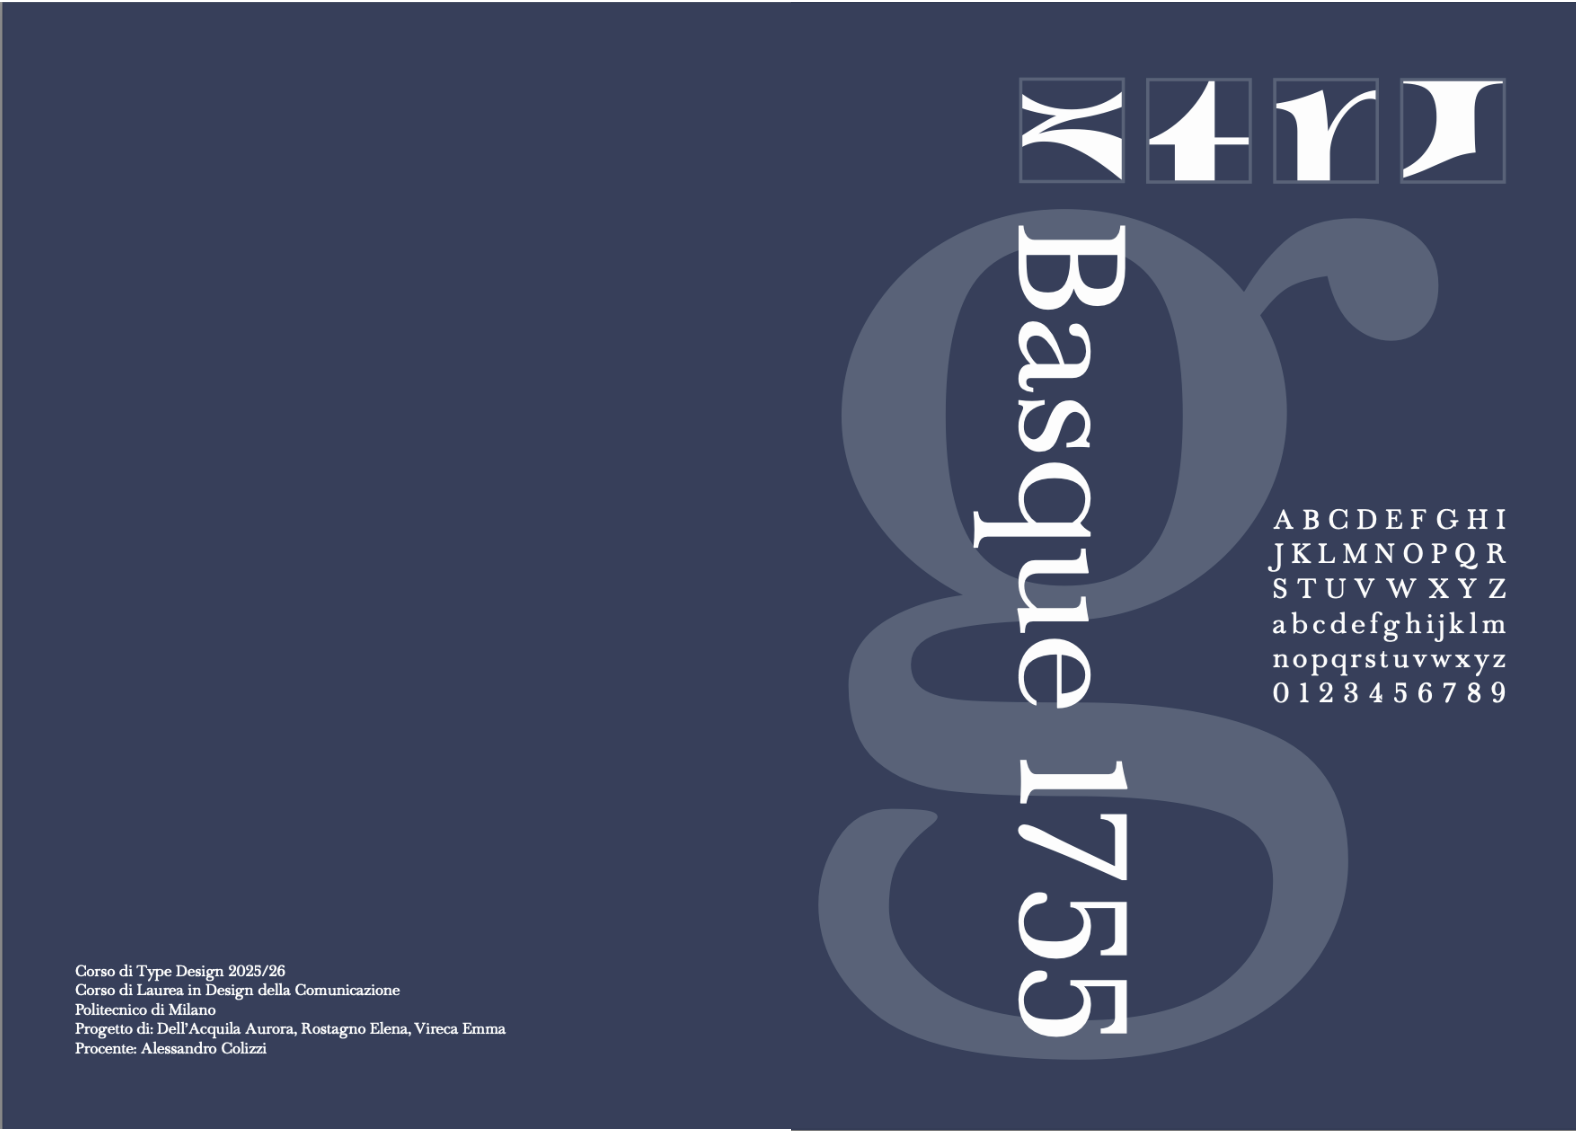
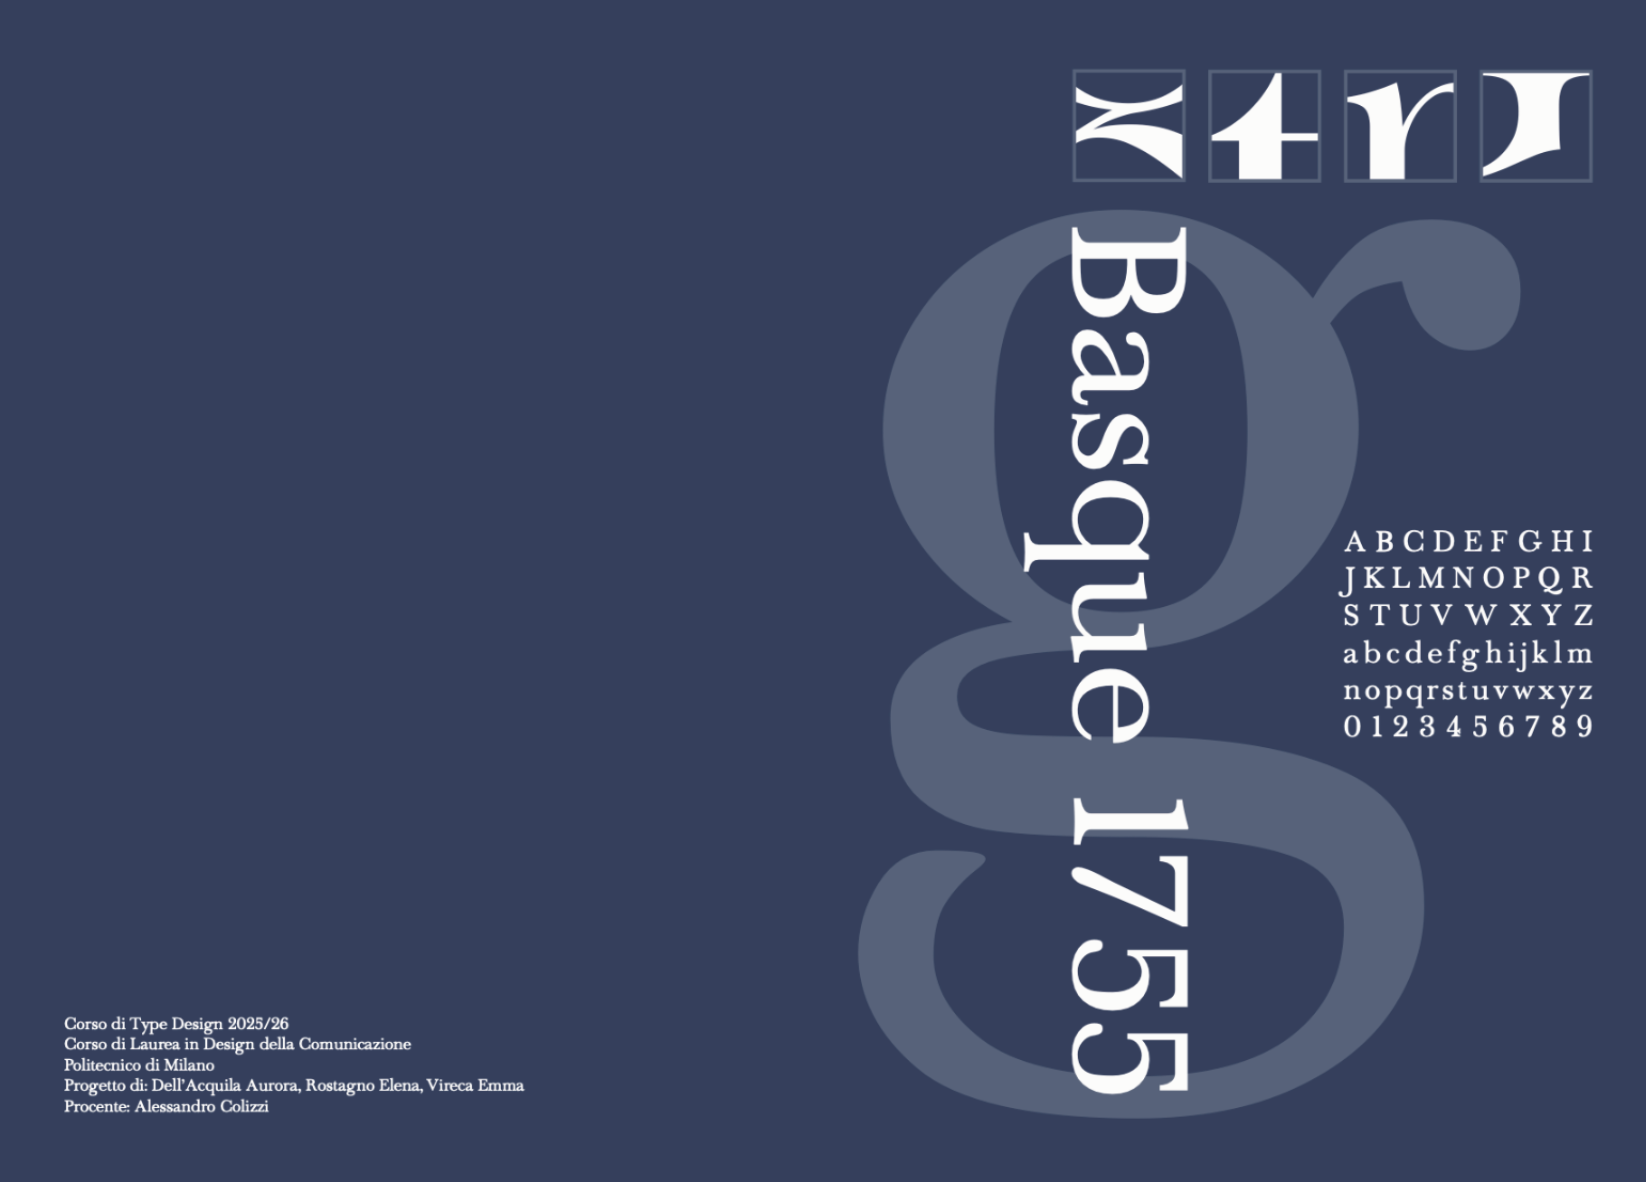
foto

diff --git a/src/routes/+page.svelte b/src/routes/+page.svelte
@@ -9,6 +9,13 @@
 	import Focus from "$lib/assets/focus.png";
 	import Basque from "$lib/assets/basque.png";
 	import Foto from "$lib/assets/foto.png";
+	import Voila from "$lib/assets/Voilà.png";
+	import Goccie from "$lib/assets/Goccie.png";
+	import Dizionario from "$lib/assets/dizionario.png";
+	import Alpha from "$lib/assets/alpha.png";
+	import bruco from "$lib/assets/bruco.gif";
+	import mockup from "$lib/assets/moc.png";
+
 
 
 	const data = {
@@ -26,13 +33,22 @@
 				{ data: { title: "25 fotografie", year: "2026", thumbnail: Foto } }
 			]
 		},
+		
 		{
 			number: 2025,
-			projects: []
+			projects: [
+				{ data: { title: "Voilà", year: "2025", thumbnail: Voila } },
+				{ data: { title: "Goccie di cristallo", year: "2025", thumbnail: Goccie } },
+				{ data: { title: "Dizionario", year: "2025", thumbnail: Dizionario } },
+				{ data: { title: "Specimen Alphapipe", year: "2025", thumbnail: Alpha } }
+			]
 		},
 		{
 			number: 2024,
-			projects: []
+			projects: [
+				{ data: { title: "Animazione per città invisibili", year: "2024", thumbnail: bruco } },
+				{ data: { title: "Mockup per elementi visivi", year: "2024", thumbnail: mockup } }
+			]
 		}
 	]
 };
